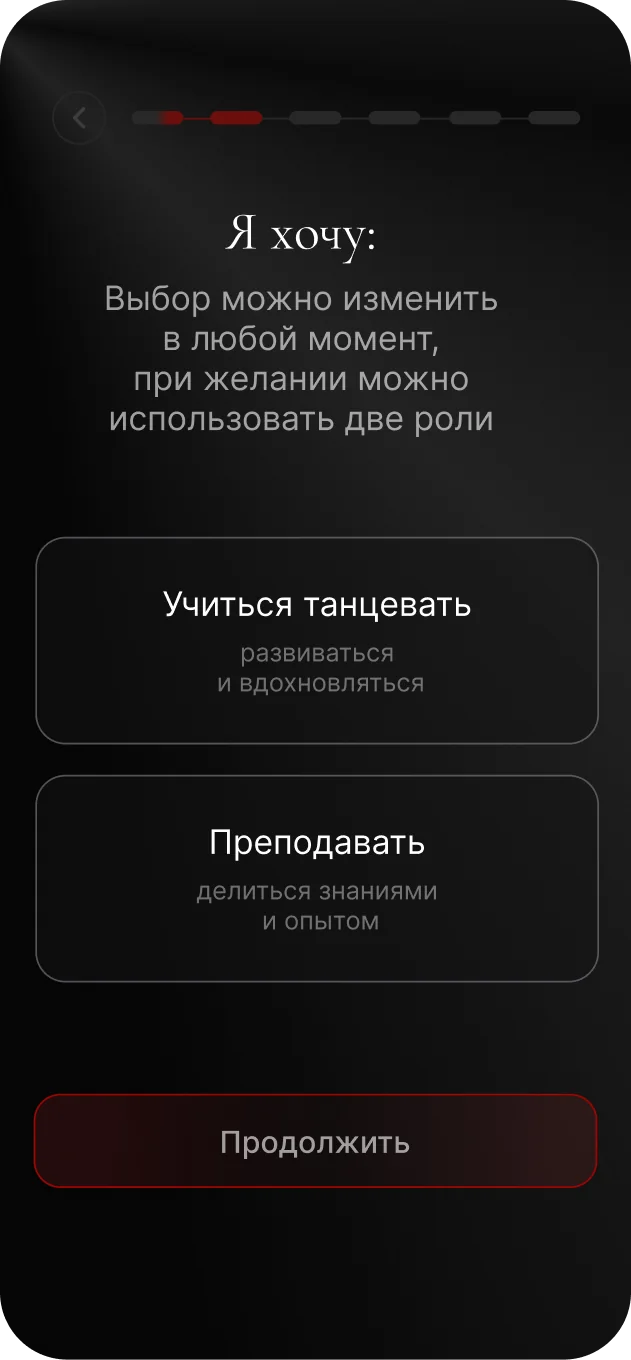
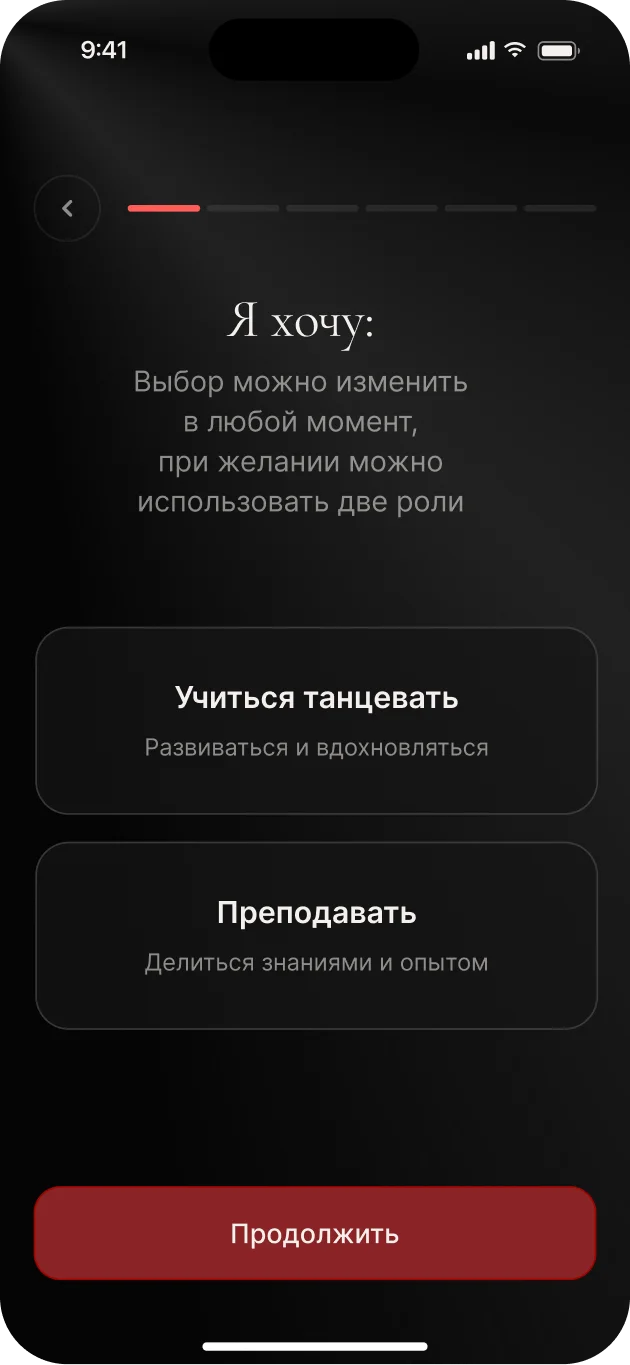
Кейс-сайт: сверен с Figma — исследование, конкуренты, гипотезы, тест 5 педагогов (9 → 4 шага), итерация, итоги; свежие экраны; встроенный прототип — живой

diff --git a/case/index.html b/case/index.html
@@ -374,6 +374,37 @@ button{font:inherit;color:inherit;background:none;border:0;cursor:pointer}
 .meta p a{color:inherit;text-decoration:none;border-bottom:1px solid rgba(254,93,87,.5)}
 .meta p a:hover{color:var(--red)}
 #hyp{gap:32px}#hyp .card{padding:26px 34px;gap:10px}#hyp .card h3{font-size:34px}#hyp .card p{font-size:20px}#hyp .card .m p{font-size:19px}
+/* исследование, конкуренты, тест */
+.bars{display:flex;flex-direction:column;gap:22px;margin-top:8px}
+.bar{display:grid;grid-template-columns:1fr auto;gap:10px 20px;align-items:baseline}
+.bar b{font-weight:400;font-size:24px}
+.bar span{font-family:var(--serif);font-size:34px;color:var(--red)}
+.bar i{grid-column:1/-1;height:6px;border-radius:3px;background:var(--bg3);position:relative;overflow:hidden}
+.bar i::after{content:"";position:absolute;inset:0 auto 0 0;width:var(--w);background:var(--red);border-radius:3px}
+.note{font-size:18px;line-height:1.5;color:var(--faint);font-weight:300}
+.qt p{font-family:var(--serif);font-style:italic;font-size:32px;line-height:1.3;color:var(--text);font-weight:400}
+.qt small{font-size:18px;color:var(--faint)}
+.qcol{display:flex;flex-direction:column;gap:24px}
+.ptbl{display:flex;flex-direction:column}
+.ptbl .row{display:grid;grid-template-columns:var(--cols,1fr 1.3fr 1.3fr);gap:32px;padding:24px 0;border-top:1px solid var(--line);align-items:start}
+.ptbl .row.h{padding:0 0 12px;border-top:0}
+.ptbl .row b{font-weight:400;font-size:24px;line-height:1.35}
+.ptbl .row span{font-size:21px;line-height:1.45;color:var(--muted);font-weight:300}
+.ptbl .row span.yes{color:var(--red);font-weight:400}
+.ptbl .row.me b,.ptbl .row.me span{color:var(--red)}
+.nums{display:flex;gap:48px}
+.nums div{font-family:var(--serif);font-size:88px;line-height:.9}
+.nums small{display:block;margin-top:10px;font-family:var(--sans);font-size:18px;color:var(--faint)}
+.card.hot{border-color:rgba(254,93,87,.55);background:radial-gradient(ellipse 80% 90% at 100% 0%,rgba(158,5,0,.3),transparent 70%),var(--bg2)}
+.card.hot .nums div{color:var(--red)}
+.steps{list-style:none;margin:6px 0 0;padding:16px 0 0;border-top:1px solid var(--line);counter-reset:s;display:flex;flex-direction:column;gap:8px}
+.steps li{counter-increment:s;display:grid;grid-template-columns:34px 1fr;font-size:20px;line-height:1.4;color:var(--muted);font-weight:300}
+.steps li::before{content:counter(s);color:var(--faint)}
+.card.hot .steps li::before{color:var(--red)}
+#s15 .ten{font-size:180px}
+#s15 .h2{font-size:60px}
+#comp .ptbl .row{padding:16px 0}
+#comp .ptbl .row.h{padding:0 0 10px}
 </style>
 </head>
 <body>
@@ -398,11 +429,11 @@ button{font:inherit;color:inherit;background:none;border:0;cursor:pointer}
     <div class="r" style="--d:0"><div class="eyebrow"><b>Кейс за 30 секунд</b></div><h2 class="hd" style="font-size:96px;margin-top:20px">Одно приложение вместо чатов, афиш и&nbsp;соцсетей студий</h2></div>
     <div class="cols" style="grid-template-columns:repeat(4,1fr);gap:40px">
       <div class="c r" style="--d:1"><span class="lbl red">01 · Проблема</span><p>Занятия, события и люди разбросаны по чатам и соцсетям — сложно найти своё, а знакомства теряются</p></div>
-      <div class="c r" style="--d:2"><span class="lbl">02 · Моя роль</span><p>Продуктовый дизайнер на всём цикле: проблема и гипотезы, метафора и айдентика, UX/UI, тест. Соло, 2&nbsp;месяца</p></div>
-      <div class="c r" style="--d:3"><span class="lbl">03 · Решение</span><p>Персональная лента занятий, событий и людей и «Ваша нить» — история общих встреч</p></div>
-      <div class="c r" style="--d:4"><span class="lbl">04 · Результат</span><p>10 педагогов прошли ключевые сценарии кабинета. Узкое место — кнопка «Опубликовать» — исправлено</p></div>
+      <div class="c r" style="--d:2"><span class="lbl">02 · Моя роль</span><p>Концепт-проект, делала одна за 2&nbsp;месяца: проблема и гипотезы, метафора и айдентика, UX/UI, тестирование</p></div>
+      <div class="c r" style="--d:3"><span class="lbl">03 · Решение</span><p>Персональная лента занятий, событий и людей, кабинет педагога и «Ваша нить» — история общих встреч</p></div>
+      <div class="c r" style="--d:4"><span class="lbl">04 · Результат</span><p>Все 5 педагогов опубликовали занятие в прототипе сами — за 4 шага вместо 9. Поле с лимитом мест после теста сделала заметнее</p></div>
     </div>
-    <div class="r" style="--d:5;display:flex;gap:24px;align-items:baseline"><span class="lbl red">Главная метрика</span><span style="font-family:var(--serif);font-size:40px">записи на занятия и события в неделю</span></div>
+    <div class="r" style="--d:5;display:flex;gap:24px;align-items:baseline"><span class="lbl red">Главная метрика</span><span style="font-family:var(--serif);font-size:40px">Записи на занятия и события в неделю</span></div>
   </section>
 
   <!-- 2 contents -->
@@ -461,17 +492,69 @@ button{font:inherit;color:inherit;background:none;border:0;cursor:pointer}
     </div>
   </section>
 
+  <!-- research -->
+  <section class="slide prod" id="res" data-sec="A">
+    <div class="top r" style="--d:0">
+      <div class="col"><div class="eyebrow"><b>(A)</b><span>Исследование</span></div><h2 class="h2">Как танцоры находят занятия</h2></div>
+      <div class="col"><span class="lbl">Метод</span><p class="lead">Провела интервью с 6 знакомыми танцорами: как они находят занятия и где узнали о последних — набралось 10 случаев. Ещё поговорила с 3 педагогами о том, как они публикуют расписание и собирают записи</p></div>
+    </div>
+    <div class="cards c2">
+      <div class="card r" style="--d:2"><span class="lbl red">Где нашли последнее занятие · 10 случаев</span>
+        <div class="bars">
+          <div class="bar"><b>Чаты танцевальных групп</b><span>4</span><i style="--w:100%"></i></div>
+          <div class="bar"><b>Сторис педагогов</b><span>3</span><i style="--w:75%"></i></div>
+          <div class="bar"><b>Рекомендации знакомых</b><span>2</span><i style="--w:50%"></i></div>
+          <div class="bar"><b>Сайт студии</b><span>1</span><i style="--w:25%"></i></div>
+        </div>
+        <p class="note" style="margin-top:auto">Это 10 случаев от 6 танцоров из моего окружения, а не доля каналов в целом. Выборка маленькая — это ограничение исследования</p>
+      </div>
+      <div class="qcol">
+        <div class="card qt r" style="--d:3"><p>«Расписание у меня в трёх местах: чат группы, сторис и пост. Если что-то переношу — правлю везде и всё равно кто-то приходит не в то время»</p><small>— педагог, Frame Up</small></div>
+        <div class="card qt r" style="--d:4"><p>«Про мастер-класс узнала из сторис подруги. Пока собралась записаться, сторис уже пропала»</p><small>— танцовщица, 2 года в High Heels</small></div>
+      </div>
+    </div>
+  </section>
+
+  <!-- research: problems -->
+  <section class="slide prod" id="res2" data-sec="A">
+    <div class="top r" style="--d:0">
+      <div class="col"><div class="eyebrow"><b>(A)</b><span>Что заметила</span></div><h2 class="h2">Две проблемы и&nbsp;решения</h2></div>
+      <div class="col"><span class="lbl">Что заметила в разговорах</span><p class="lead" style="font-family:var(--serif);font-style:italic;color:var(--text);font-size:36px;line-height:1.3">Сначала думала, что главная проблема — нет единого места для поиска занятий. Но в разговорах заметила ещё одну: даже когда человек находит подходящее занятие, ему не всегда понятно, актуальны ли расписание и условия записи</p></div>
+    </div>
+    <div class="ptbl r" style="--d:2">
+      <div class="row h"><span class="lbl">Проблема</span><span class="lbl">Что заметила</span><span class="lbl">Что сделала в Looma</span></div>
+      <div class="row"><b>1. Информация разбросана</b><span>Расписание, стоимость и запись могут находиться в разных местах. Иногда приходится писать педагогу, чтобы уточнить детали</span><span class="yes">Карточка занятия: время, место, цена и запись на одном экране</span></div>
+      <div class="row"><b>2. Сложно понять, актуальна ли информация</b><span>Анонсы в сторис исчезают, а изменения расписания не всегда дублируются во всех каналах</span><span class="yes">Педагог меняет или отменяет занятие в одном месте — ученики видят актуальную версию и получают уведомление</span></div>
+    </div>
+  </section>
+
+  <!-- competitors -->
+  <section class="slide prod" id="comp" data-sec="A">
+    <div class="top r" style="--d:0">
+      <div class="col"><div class="eyebrow"><b>(A)</b><span>Конкуренты</span></div><h2 class="h2">Где ещё ищут занятия</h2></div>
+      <div class="col"><span class="lbl">Вывод</span><p class="lead">Расписание и онлайн-запись уже есть, но только внутри одной студии. Ни один канал не связывает людей после занятия — на этом строится «Ваша нить»</p></div>
+    </div>
+    <div class="ptbl r" style="--d:2;--cols:1.1fr 1fr 1fr 1fr 1fr">
+      <div class="row h"><span class="lbl">Канал</span><span class="lbl">Найти занятие под себя</span><span class="lbl">Актуальное расписание</span><span class="lbl">Запись</span><span class="lbl">Что остаётся после встречи</span></div>
+      <div class="row"><b>Чаты групп в Telegram</b><span>Только если уже состоишь в чате</span><span>Закреп теряется в переписке</span><span>«Плюсик» в чате, места считают вручную</span><span>Общий чат, но без истории встреч</span></div>
+      <div class="row"><b>Сторис и посты педагогов</b><span>Только если подписан на педагога</span><span>Сторис исчезают через 24 часа</span><span>Через директ</span><span>Подписка, не связанная с занятиями</span></div>
+      <div class="row"><b>Сайт студии с онлайн-записью</b><span>Только занятия одной студии</span><span>Да</span><span>Онлайн</span><span>Ничего</span></div>
+      <div class="row"><b>Афиши событий (Timepad)</b><span>События, но не регулярные занятия</span><span>Да</span><span>Билет</span><span>Ничего</span></div>
+      <div class="row me"><b>Looma</b><span>Подборка по стилю и уровню</span><span>Педагог меняет занятие в одном месте</span><span>В карточке занятия</span><span>«Ваша нить» — история общих встреч</span></div>
+    </div>
+  </section>
+
   <!-- hypotheses -->
   <section class="slide prod" id="hyp" data-sec="A">
     <div class="top r" style="--d:0">
       <div class="col"><div class="eyebrow"><b>(A)</b><span>Гипотезы</span></div><h2 class="h2">Гипотезы и&nbsp;метрики</h2></div>
-      <div class="col"><span class="lbl">Что должно сработать</span><p class="lead">И как я бы поняла, что сработало</p></div>
+      <div class="col"><span class="lbl">Что должно сработать</span><p class="lead">Одна гипотеза выросла из исследования, две — мои предположения, которые ещё нужно проверить. У каждой есть метрика</p></div>
     </div>
-    <div class="ns r" style="--d:1"><div><span class="lbl red">Главная метрика · North Star</span><h3 style="margin-top:10px">Записи на занятия и&nbsp;события в&nbsp;неделю</h3></div><p>Главная ценность Looma — человек находит занятие и приходит на него. Связи и нить растут из этих встреч</p></div>
+    <div class="ns r" style="--d:1"><div><span class="lbl red">Главная метрика · North Star</span><h3 style="margin-top:10px">Записи на занятия и&nbsp;события в&nbsp;неделю</h3></div><p>Человек нашёл занятие и записался — ради этого всё и затевалось. Связи растут уже из этих встреч</p></div>
     <div class="cards">
-      <div class="card r" style="--d:2"><span class="o">1</span><h3>Ценность до регистрации</h3><p>Если сначала показать, что даёт Looma, и собрать интересы, а форму регистрации дать последней, больше новичков дойдут до первой записи</p><div class="m"><span class="lbl red">Метрика</span><p>Доля дошедших от старта онбординга до первой записи</p></div></div>
-      <div class="card r" style="--d:3"><span class="o">2</span><h3>Всё в одном месте</h3><p>Если собрать занятия, события и людей в одной ленте, не придётся искать по чатам и соцсетям</p><div class="m"><span class="lbl red">Метрика</span><p>Время от открытия приложения до записи</p></div></div>
-      <div class="card r" style="--d:4"><span class="o">3</span><h3>Связь удерживает</h3><p>Если после общей встречи предложить связь и показать «Вашу нить», люди будут возвращаться</p><div class="m"><span class="lbl red">Метрика</span><p>Доля принятых запросов на связь и возврат через 30 дней</p></div></div>
+      <div class="card r" style="--d:2"><span class="o">1</span><h3>Ценность до регистрации</h3><p>Если сначала показать подборку, а регистрацию дать последней, больше новичков дойдут до первой записи</p><span class="lbl" style="font-size:16px">Предположение · не проверено</span><div class="m"><span class="lbl red">Метрика</span><p>Доля дошедших от старта онбординга до первой записи</p></div></div>
+      <div class="card hot r" style="--d:3"><span class="o">2</span><h3>Расписание в Looma</h3><p>Если опубликовать занятие проще, чем вести чаты, педагоги начнут вести расписание в Looma</p><span class="lbl red" style="font-size:16px">Из исследования</span><div class="m"><span class="lbl red">Метрика</span><p>Доля педагогов, опубликовавших первое занятие в первую неделю</p></div></div>
+      <div class="card r" style="--d:4"><span class="o">3</span><h3>Связь удерживает</h3><p>Если после общей встречи предложить связь, люди будут возвращаться в приложение</p><span class="lbl" style="font-size:16px">Из моего опыта · не проверено</span><div class="m"><span class="lbl red">Метрика</span><p>Доля принятых запросов на связь и доля вернувшихся через 30 дней</p></div></div>
     </div>
   </section>
 
@@ -484,13 +567,13 @@ button{font:inherit;color:inherit;background:none;border:0;cursor:pointer}
     <div class="cards c2">
       <div class="card r" style="--d:1"><span class="lbl red">Вошло в MVP</span><div class="list">
         <div><b>Онбординг с выбором роли</b><span>Без него не собрать персональную подборку</span></div>
-        <div><b>Лента «Для тебя»</b><span>Главная точка входа: занятия, события и люди</span></div>
-        <div><b>Запись на занятие</b><span>Ключевое действие и главная метрика</span></div>
+        <div><b>Лента «Для вас»</b><span>Главная точка входа: занятия, события и люди</span></div>
+        <div><b>Запись, напоминание, отмена</b><span>Важно не только записаться, но и прийти</span></div>
         <div><b>Связи и «Ваша нить»</b><span>Отличает Looma от расписаний и афиш</span></div>
         <div><b>Кабинет педагога</b><span>Без педагогов нет занятий в ленте</span></div></div></div>
       <div class="card r" style="--d:2"><span class="lbl">Отложила</span><div class="list">
         <div><b>Чат между пользователями</b><span>Сначала проверить, нужны ли связи вообще</span></div>
-        <div><b>Оплата внутри приложения</b><span>Сложно и дорого; на старте — переход к студии</span></div>
+        <div><b>Оплата внутри приложения</b><span>Сложно и дорого; на старте — оплата в студии</span></div>
         <div><b>Отзывы и рейтинги педагогов</b><span>Нужна база занятий, чтобы было что оценивать</span></div>
         <div><b>Уведомления о пересечениях</b><span>Добавлю, когда связи начнут расти</span></div></div></div>
     </div>
@@ -647,7 +730,7 @@ button{font:inherit;color:inherit;background:none;border:0;cursor:pointer}
       <div class="ph r" style="--d:1"><img src="img/ob1.webp" alt="Стартовый экран"><span class="n">Старт</span></div>
       <div class="ph r" style="--d:2"><img src="img/ob2.webp" alt="Выбор роли"><span class="n">Роль</span></div>
       <div class="ph r" style="--d:3"><img src="img/ob3.webp" alt="Нить рекомендаций"><span class="n">Рекомендации</span></div>
-      <div class="ph r" style="--d:4"><img src="img/ob4.webp" alt="Выбери свой вайб"><span class="n">Вайб</span></div>
+      <div class="ph r" style="--d:4"><img src="img/ob4.webp" alt="Выберите свой вайб"><span class="n">Вайб</span></div>
       <div class="ph r" style="--d:5"><img src="img/ob5.webp" alt="Выбор направлений"><span class="n">Направления</span></div>
       <div class="ph r" style="--d:6"><img src="img/ob6.webp" alt="Создание профиля"><span class="n">Профиль</span></div>
     </div>
@@ -662,7 +745,7 @@ button{font:inherit;color:inherit;background:none;border:0;cursor:pointer}
     </div>
     <div class="rings ri" style="--d:1">
       <div class="ring r1"></div><div class="ring r2"></div><div class="ring r3"></div><div class="ring pulse"></div>
-      <div class="ph"><img src="img/home.webp" alt="Главный экран «Для тебя»" data-tilt></div>
+      <div class="ph"><img src="img/home.webp" alt="Главный экран «Для вас»" data-tilt></div>
     </div>
     <div class="blocks">
       <div class="r" style="--d:3"><span>1</span>Фильтры: люди, занятия, события, стили</div>
@@ -682,8 +765,8 @@ button{font:inherit;color:inherit;background:none;border:0;cursor:pointer}
     </div>
     <div class="phones" style="align-items:flex-end">
       <div class="ph r" style="--d:2"><img src="img/st1.webp" alt="История: Привет! Я Настя"><span class="n">Знакомство</span></div>
-      <div class="ph r" style="--d:3"><img src="img/st2.webp" alt="История: Что тебя ждёт?"><span class="n">Что тебя ждёт</span></div>
-      <div class="ph r" style="--d:4"><img src="img/st3.webp" alt="История: Подойдут ли тебе мои занятия?"><span class="n">Кому подойдёт</span></div>
+      <div class="ph r" style="--d:3"><img src="img/st2.webp" alt="История: Что вас ждёт?"><span class="n">Что вас ждёт</span></div>
+      <div class="ph r" style="--d:4"><img src="img/st3.webp" alt="История: Подойдут ли вам мои занятия?"><span class="n">Кому подойдёт</span></div>
     </div>
   </section>
 
@@ -691,7 +774,7 @@ button{font:inherit;color:inherit;background:none;border:0;cursor:pointer}
   <section class="slide" id="s14" data-sec="C">
     <div class="top r" style="--d:0">
       <div class="col"><div class="eyebrow"><b>(C)</b></div><h2 class="h2">Связи</h2></div>
-      <div class="col"><span class="lbl">Сценарий</span><p class="lead" style="max-width:900px">Найти человека, отправить запрос и получить общую нить — историю ваших пересечений</p></div>
+      <div class="col"><span class="lbl">Сценарий</span><p class="lead" style="max-width:900px">Найти человека, отправить запрос и получить общую нить — историю ваших пересечений. С кем были на одном занятии — предложить связь, с остальными — подписаться</p></div>
     </div>
     <div class="flow phones">
       <div class="ph r" style="--d:1"><img src="img/people.webp" alt="Экран «Люди»"><span class="n">Люди</span></div>
@@ -716,11 +799,11 @@ button{font:inherit;color:inherit;background:none;border:0;cursor:pointer}
       </div>
     </div>
     <div class="stagewrap ri" style="--d:1">
-      <div class="device"><div class="ph-load">Looma</div><iframe id="protoFrame" title="Интерактивный прототип Looma" data-src="app/index.html" loading="lazy"></iframe></div>
+      <div class="device"><div class="ph-load">Looma</div><iframe id="protoFrame" title="Интерактивный прототип Looma" data-src="../prototype/index.html" loading="lazy"></iframe></div>
     </div>
     <div class="side">
       <div class="r" style="--d:5" id="qrBlock"><span class="lbl">На телефоне</span><div class="qr" id="qr" style="margin-top:14px"></div></div>
-      <a class="act r" style="--d:6" href="app/index.html" target="_blank" rel="noopener">Открыть отдельно <svg viewBox="0 0 24 24"><path d="M7 17L17 7M9 7h8v8"/></svg></a>
+      <a class="act r" style="--d:6" href="../prototype/" target="_blank" rel="noopener">Открыть отдельно <svg viewBox="0 0 24 24"><path d="M7 17L17 7M9 7h8v8"/></svg></a>
       <button class="act r" style="--d:7" id="protoReset">Начать заново <svg viewBox="0 0 24 24"><path d="M4 12a8 8 0 1 0 2.4-5.7M4 4v5h5"/></svg></button>
     </div>
   </section>
@@ -733,32 +816,48 @@ button{font:inherit;color:inherit;background:none;border:0;cursor:pointer}
     </div>
     <div class="dec">
       <div class="row r" style="--d:1"><span class="o">1</span><h3>Ценность до регистрации</h3><p>Онбординг сначала показывает, что даёт Looma, и собирает направления и вайб. Регистрация — последней<br><em>Цена:</em> контакт узнаём позже, часть людей уйдёт без регистрации</p></div>
-      <div class="row r" style="--d:2"><span class="o">2</span><h3>Две роли в одном аккаунте</h3><p>Танцор и педагог — часто один человек. Роль можно сменить или совмещать<br><em>Цена:</em> интерфейс сложнее — переключение ролей и два набора разделов</p></div>
+      <div class="row r" style="--d:2"><span class="o">2</span><h3>Две роли в одном аккаунте</h3><p>Танцор и педагог — часто один человек. Роль выбирается на старте, её можно сменить или совмещать обе в одном аккаунте<br><em>Цена:</em> интерфейс сложнее — нужен переключатель ролей. Чтобы не путать, в меню меняется только один пункт</p></div>
       <div class="row r" style="--d:3"><span class="o">3</span><h3>Stories вместо анкеты</h3><p>Педагог рассказывает о себе в коротких видео — характер видно до первого занятия<br><em>Цена:</em> педагогу нужно снять видео, порог входа выше</p></div>
-      <div class="row r" style="--d:4"><span class="o">4</span><h3>Связь — только по согласию</h3><p>Связь появляется, когда её подтверждают оба. Затем открывается «Ваша нить»<br><em>Цена:</em> сеть растёт медленнее, зато без спама</p></div>
+      <div class="row r" style="--d:4"><span class="o">4</span><h3>Связь — только по согласию</h3><p>Связь появляется, когда её подтверждают оба. Затем открывается «Ваша нить»<br><em>Цена:</em> сеть растёт медленнее, зато без спама и навязчивых контактов</p></div>
     </div>
   </section>
 
-  <!-- 15 research -->
+  <!-- 15 test -->
   <section class="slide" id="s15" data-sec="D">
     <div class="left">
       <div class="r" style="--d:0"><div class="eyebrow"><b>(D)</b><span>Тестирование</span></div></div>
-      <h2 class="h2 r" style="--d:1">Продуктовое исследование</h2>
-      <p class="lead r" style="--d:2">Гипотеза: педагог без подсказок справится с ключевыми задачами кабинета</p>
-      <div class="r" style="--d:3;margin-top:auto"><div class="ten">10</div><p class="lbl" style="margin-top:18px">педагогов · лично, на танцевальных встречах</p></div>
+      <h2 class="h2 r" style="--d:1">Публикация занятия: привычный способ и&nbsp;Looma</h2>
+      <p class="lead r" style="--d:2;font-size:26px">Начала с педагогов: без их занятий лента пустая и танцору нечего искать. Попросила 5 педагогов показать, как они обычно размещают анонсы, а затем выполнить ту же задачу в прототипе</p>
+      <div class="r" style="--d:3;margin-top:auto"><div class="ten">5/5</div><p class="lbl" style="margin-top:18px">опубликовали занятие сами · юзабилити-тест с модератором</p></div>
     </div>
-    <div>
-      <div class="tbl rs">
-        <div class="row h r" style="--d:1"><span></span><span class="lbl">Сценарий</span><span class="lbl">Результат</span></div>
-        <div class="row r" style="--d:2"><span class="ck"><svg viewBox="0 0 24 24"><path d="M5 12l5 5 9-10"/></svg></span><span class="sc">Создать занятие</span><span class="res">Справились</span></div>
-        <div class="row r" style="--d:3"><span class="ck"><svg viewBox="0 0 24 24"><path d="M5 12l5 5 9-10"/></svg></span><span class="sc">Опубликовать занятие</span><span class="res"><span>Справились, но кнопку «Опубликовать» замечали не сразу<small>Исправила — кнопка стала главной на экране</small></span></span></div>
-        <div class="row r" style="--d:4"><span class="ck"><svg viewBox="0 0 24 24"><path d="M5 12l5 5 9-10"/></svg></span><span class="sc">Найти созданное занятие</span><span class="res">Справились</span></div>
-        <div class="row r" style="--d:5"><span class="ck"><svg viewBox="0 0 24 24"><path d="M5 12l5 5 9-10"/></svg></span><span class="sc">Отменить занятие</span><span class="res">Справились</span></div>
+    <div style="display:flex;flex-direction:column;gap:20px">
+      <div class="cards c2">
+        <div class="card r" style="--d:2"><span class="lbl">Как сейчас · 5 педагогов</span>
+          <div class="nums"><div>3<small>места</small></div><div>9<small>шагов</small></div><div>~6<small>минут</small></div></div>
+          <ol class="steps"><li>Написать текст анонса</li><li>Отправить его в чат группы</li><li>Закрепить сообщение в чате</li><li>Снять сторис в Instagram</li><li>Добавить детали и опубликовать сторис</li><li>Закрепить сторис в актуальном</li><li>Ответить в директ тем, кто хочет записаться</li><li>Внести учеников в свой список</li><li>Пересчитать места и написать, когда их не осталось</li></ol>
+        </div>
+        <div class="card hot r" style="--d:3"><span class="lbl red">В Looma · прототип</span>
+          <div class="nums"><div>1<small>место</small></div><div>4<small>шага</small></div><div>~2<small>минуты</small></div></div>
+          <ol class="steps"><li>Открыть «Мои занятия» в профиле</li><li>Нажать «Новое занятие»</li><li>Заполнить форму: стиль, уровень, дата, время, место, цена и число мест</li><li>Нажать «Опубликовать» — записи и свободные места Looma считает сама</li></ol>
+        </div>
       </div>
-      <div class="out">
-        <div class="r" style="--d:6"><span class="lbl">Вывод</span><p>Гипотеза подтвердилась. Одно узкое место — кнопка «Опубликовать»</p></div>
-        <div class="r" style="--d:7"><span class="lbl">Что изменила</span><p>Ссылку в шапке формы заменила на главную кнопку внизу</p></div>
-      </div>
+      <p class="note r" style="--d:4">Шаги — типичный путь участников теста. Время засекала от начала до конца задачи и округлила. Тест проверял удобство интерфейса, а не готовность педагогов полностью перейти на новую платформу</p>
+    </div>
+  </section>
+
+  <!-- iteration -->
+  <section class="slide prod" id="iter" data-sec="D">
+    <div class="top r" style="--d:0">
+      <div class="col"><div class="eyebrow"><b>(D)</b><span>Итерация</span></div><h2 class="h2">Итерация после теста</h2></div>
+      <div class="col"><span class="lbl">Что заметила</span><p class="lead">Все 5 педагогов опубликовали занятие сами. Один не сразу нашёл, где указать количество мест, — поле с лимитом сделала заметнее</p></div>
+    </div>
+    <div class="out" style="margin-top:0">
+      <div class="r" style="--d:2"><span class="lbl">До</span><p>Лимит мест был спрятан в «Настройках записи» в конце формы — его легко пропустить</p></div>
+      <div class="r" style="--d:3;border-color:rgba(254,93,87,.55)"><span class="lbl red">После</span><p>Поле «Мест» рядом с ценой и пояснение, что будет, когда места закончатся</p></div>
+    </div>
+    <div class="ptbl r" style="--d:4;--cols:1fr 1.2fr 1fr">
+      <div class="row h"><span class="lbl">Сценарий</span><span class="lbl">Результат</span><span class="lbl">Метод</span></div>
+      <div class="row"><b>Создать и опубликовать занятие</b><span class="yes">5 из 5 справились сами. Один не сразу нашёл, где указать количество мест</span><span>Юзабилити-тест с модератором, 5 педагогов, кабинет педагога</span></div>
     </div>
   </section>
 
@@ -768,15 +867,17 @@ button{font:inherit;color:inherit;background:none;border:0;cursor:pointer}
       <div class="col"><div class="eyebrow"><b>(D)</b><span>Итоги</span></div><h2 class="h2">Выводы</h2></div>
       <div class="col"><span class="lbl">Дальше</span><p class="lead">Что дал проект и что я проверила бы следующим шагом</p></div>
     </div>
-    <div class="cards c2">
+    <div class="cards">
       <div class="card r" style="--d:1"><span class="lbl red">Что получилось</span><div class="list">
-        <div><b>Метафора нити собрала продукт, айдентику и интерфейс вокруг одной идеи</b></div>
-        <div><b>Тест показал, что сценарии педагога понятны</b></div>
-        <div><b>Главная находка — кнопку «Опубликовать» замечали не сразу. Сделала её заметнее</b></div></div></div>
+        <div><b>Нашла две проблемы: информация разбросана, и непонятно, актуальна ли она</b><span>На них построены карточка занятия и кабинет педагога</span></div>
+        <div><b>Все 5 педагогов опубликовали занятие без помощи — за 4&nbsp;шага вместо 9</b><span>Поле с лимитом мест после теста сделала заметнее</span></div>
+        <div><b>Красную нить провела через всё</b><span>Логотип, иллюстрации пустых экранов и функция «Ваша нить»</span></div></div></div>
       <div class="card r" style="--d:2"><span class="lbl">Что дальше</span><div class="list">
-        <div><b>A/B-тест: онбординг с ценностью против регистрации сразу</b><span>Метрика — доля дошедших до первой записи</span></div>
-        <div><b>Протестировать путь танцора</b><span>Поиск занятия, запись и установление связи</span></div>
-        <div><b>Следить за долей принятых связей</b><span>Так проверяется гипотеза «Связь удерживает»</span></div></div></div>
+        <div><b>A/B-тест: подборка до регистрации против регистрации сразу</b><span>Метрика — доля дошедших до первой записи</span></div>
+        <div><b>Проверить «Расписание в Looma» после запуска</b><span>Тест показал, что публиковать проще. Начнут ли педагоги вести расписание, покажет доля опубликовавших первое занятие в первую неделю</span></div>
+        <div><b>Протестировать путь танцора</b><span>Поиск, запись и связь. Метрики — доля принятых запросов и вернувшихся через 30&nbsp;дней</span></div></div></div>
+      <div class="card r" style="--d:3"><span class="lbl">Что сделала бы иначе</span><div class="list">
+        <div><b>Собрала бы компоненты до экранов</b><span>Первые экраны рисовала без библиотеки, и потом приводила их к одной системе</span></div></div></div>
     </div>
   </section>
 
@@ -925,7 +1026,7 @@ button{font:inherit;color:inherit;background:none;border:0;cursor:pointer}
   });
   const host=location.hostname;
   const qrOk=/^https?:$/.test(location.protocol) && !/claude|anthropic|usercontent|localhost|^127\./.test(host);
-  if(qrOk && window.QRCode){ try{ new QRCode(document.getElementById('qr'),{text:new URL('app/',location.href).href,width:376,height:376,colorDark:'#0F0F0F',colorLight:'#F4F0EC',correctLevel:QRCode.CorrectLevel.M}); }catch(e){ document.getElementById('qrBlock').hidden=true; } }
+  if(qrOk && window.QRCode){ try{ new QRCode(document.getElementById('qr'),{text:new URL('../prototype/',location.href).href,width:376,height:376,colorDark:'#0F0F0F',colorLight:'#F4F0EC',correctLevel:QRCode.CorrectLevel.M}); }catch(e){ document.getElementById('qrBlock').hidden=true; } }
   else document.getElementById('qrBlock').hidden=true;
   const start=slides.findIndex(s=>'#'+s.id===location.hash);
   go(start>=0?start:0);
